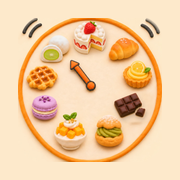
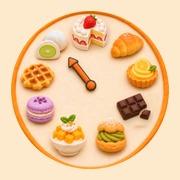
홈 화면 아이콘: 시계 테두리를 동그랗게 다듬음(주소 ?v=6)

diff --git a/index.html b/index.html
@@ -6,10 +6,10 @@
 <meta name="apple-mobile-web-app-capable" content="yes">
 <meta name="theme-color" content="#ffd400">
 <title>디저트 타이밍</title>
-<link rel="icon" type="image/png" sizes="32x32" href="img/brand/favicon.png?v=5">
-<link rel="icon" type="image/png" sizes="512x512" href="img/brand/icon-512.png?v=5">
+<link rel="icon" type="image/png" sizes="32x32" href="img/brand/favicon.png?v=6">
+<link rel="icon" type="image/png" sizes="512x512" href="img/brand/icon-512.png?v=6">
 <link rel="manifest" href="manifest.webmanifest">
-<link rel="apple-touch-icon" sizes="180x180" href="img/brand/apple-touch-icon.png?v=5">
+<link rel="apple-touch-icon" sizes="180x180" href="img/brand/apple-touch-icon.png?v=6">
 <meta name="description" content="네이버 10년치 검색량으로 본 디저트 수명주기와 출시 타이밍">
 <meta property="og:type" content="website">
 <meta property="og:site_name" content="디저트 타이밍">
@@ -1279,7 +1279,7 @@ table.small.bt-tbl td:first-child{word-break:break-all;white-space:normal}
 </main>
 
 <div class="a2hs" id="a2hs" hidden>
-  <img src="img/brand/apple-touch-icon.png?v=5" alt="">
+  <img src="img/brand/apple-touch-icon.png?v=6" alt="">
   <div><b>디저트 타이밍을 홈 화면에 쏙</b><span>아이콘을 눌러 앱처럼 바로 열어요</span></div>
   <button type="button" class="btn" id="a2hs-btn">⬇ 설치 방법</button>
 </div>

diff --git a/src/head.html b/src/head.html
@@ -6,10 +6,10 @@
 <meta name="apple-mobile-web-app-capable" content="yes">
 <meta name="theme-color" content="#ffd400">
 <title>디저트 타이밍</title>
-<link rel="icon" type="image/png" sizes="32x32" href="img/brand/favicon.png?v=5">
-<link rel="icon" type="image/png" sizes="512x512" href="img/brand/icon-512.png?v=5">
+<link rel="icon" type="image/png" sizes="32x32" href="img/brand/favicon.png?v=6">
+<link rel="icon" type="image/png" sizes="512x512" href="img/brand/icon-512.png?v=6">
 <link rel="manifest" href="manifest.webmanifest">
-<link rel="apple-touch-icon" sizes="180x180" href="img/brand/apple-touch-icon.png?v=5">
+<link rel="apple-touch-icon" sizes="180x180" href="img/brand/apple-touch-icon.png?v=6">
 <meta name="description" content="네이버 10년치 검색량으로 본 디저트 수명주기와 출시 타이밍">
 <meta property="og:type" content="website">
 <meta property="og:site_name" content="디저트 타이밍">

diff --git a/privacy.html b/privacy.html
@@ -4,7 +4,7 @@
 <meta charset="utf-8">
 <meta name="viewport" content="width=device-width, initial-scale=1">
 <title>개인정보 처리방침 · 디저트 타이밍</title>
-<link rel="icon" href="img/brand/favicon.png?v=5">
+<link rel="icon" href="img/brand/favicon.png?v=6">
 <link href="https://fonts.googleapis.com/css2?family=Black+Han+Sans&family=Noto+Sans+KR:wght@400;700&display=swap" rel="stylesheet">
 <style>
 :root{--y:#ffd400;--ink:#1c1c1c;--ink2:#555;--bg:#fff8dc}

diff --git a/guide.html b/guide.html
@@ -4,7 +4,7 @@
 <meta charset="utf-8">
 <meta name="viewport" content="width=device-width, initial-scale=1">
 <title>사용법 · 디저트 타이밍</title>
-<link rel="icon" href="img/brand/favicon.png?v=5">
+<link rel="icon" href="img/brand/favicon.png?v=6">
 <link href="https://fonts.googleapis.com/css2?family=Black+Han+Sans&family=Noto+Sans+KR:wght@400;700&display=swap" rel="stylesheet">
 <style>
 :root{--y:#ffd400;--o:#ff5a1f;--ink:#1c1c1c;--ink2:#555;--bg:#fff8dc}

diff --git a/src/body.html b/src/body.html
@@ -387,7 +387,7 @@
 </main>
 
 <div class="a2hs" id="a2hs" hidden>
-  <img src="img/brand/apple-touch-icon.png?v=5" alt="">
+  <img src="img/brand/apple-touch-icon.png?v=6" alt="">
   <div><b>디저트 타이밍을 홈 화면에 쏙</b><span>아이콘을 눌러 앱처럼 바로 열어요</span></div>
   <button type="button" class="btn" id="a2hs-btn">⬇ 설치 방법</button>
 </div>
